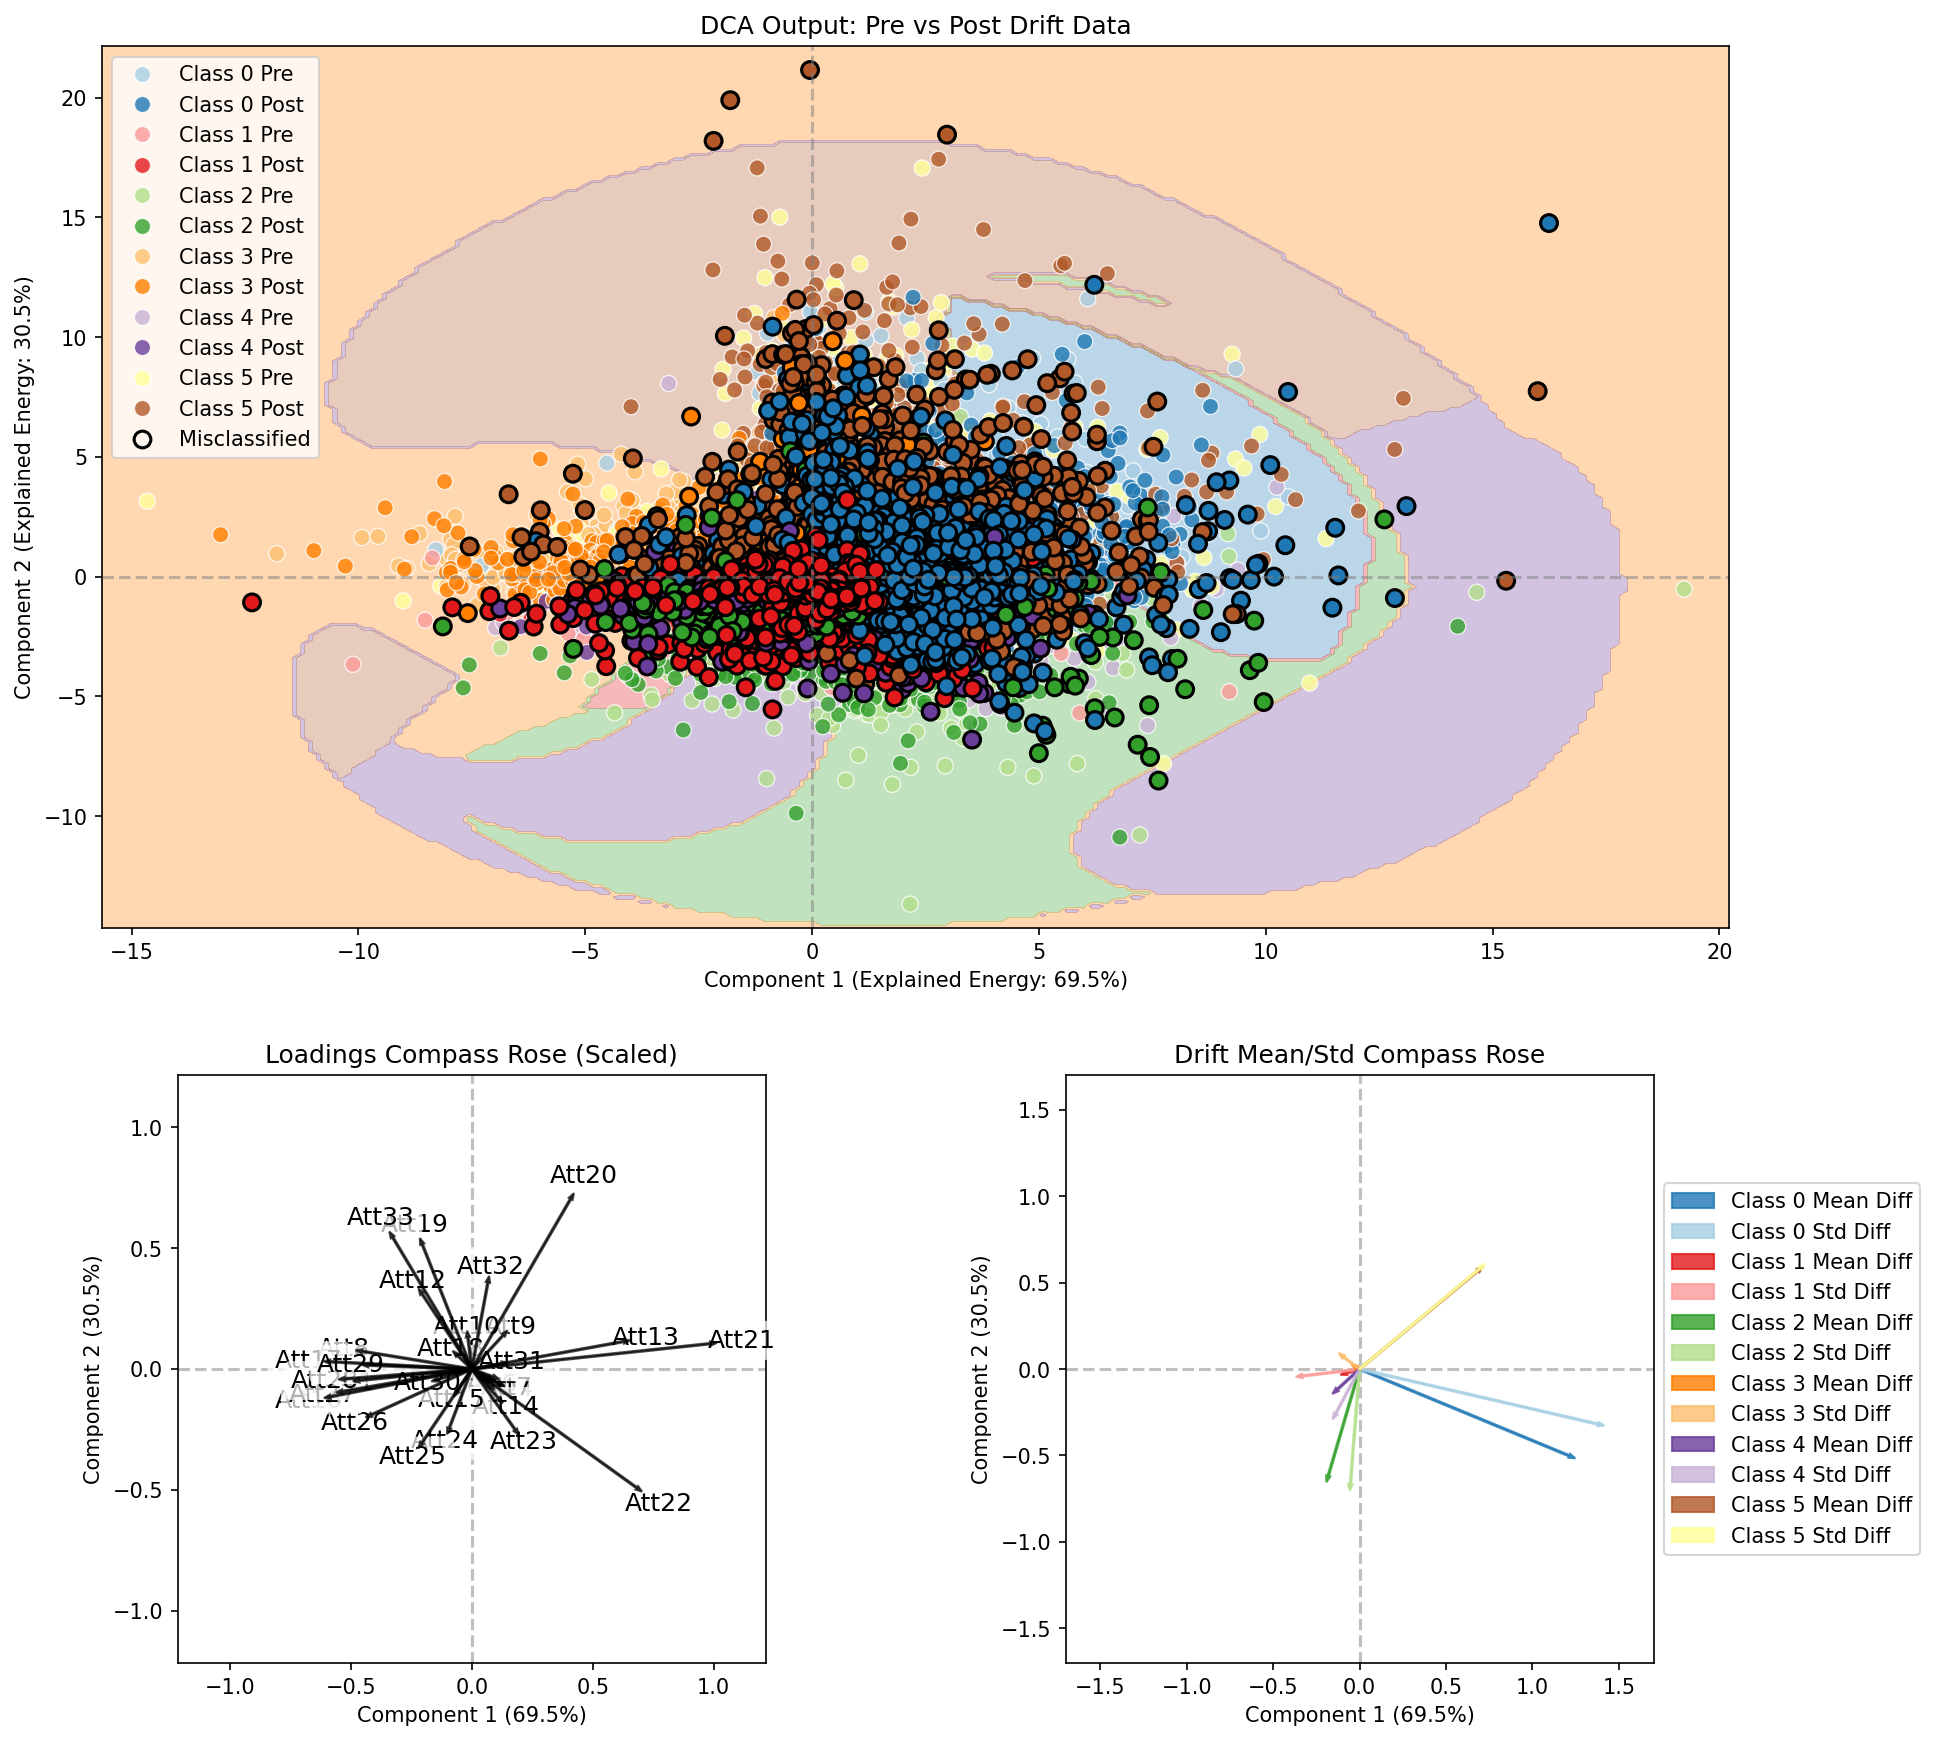
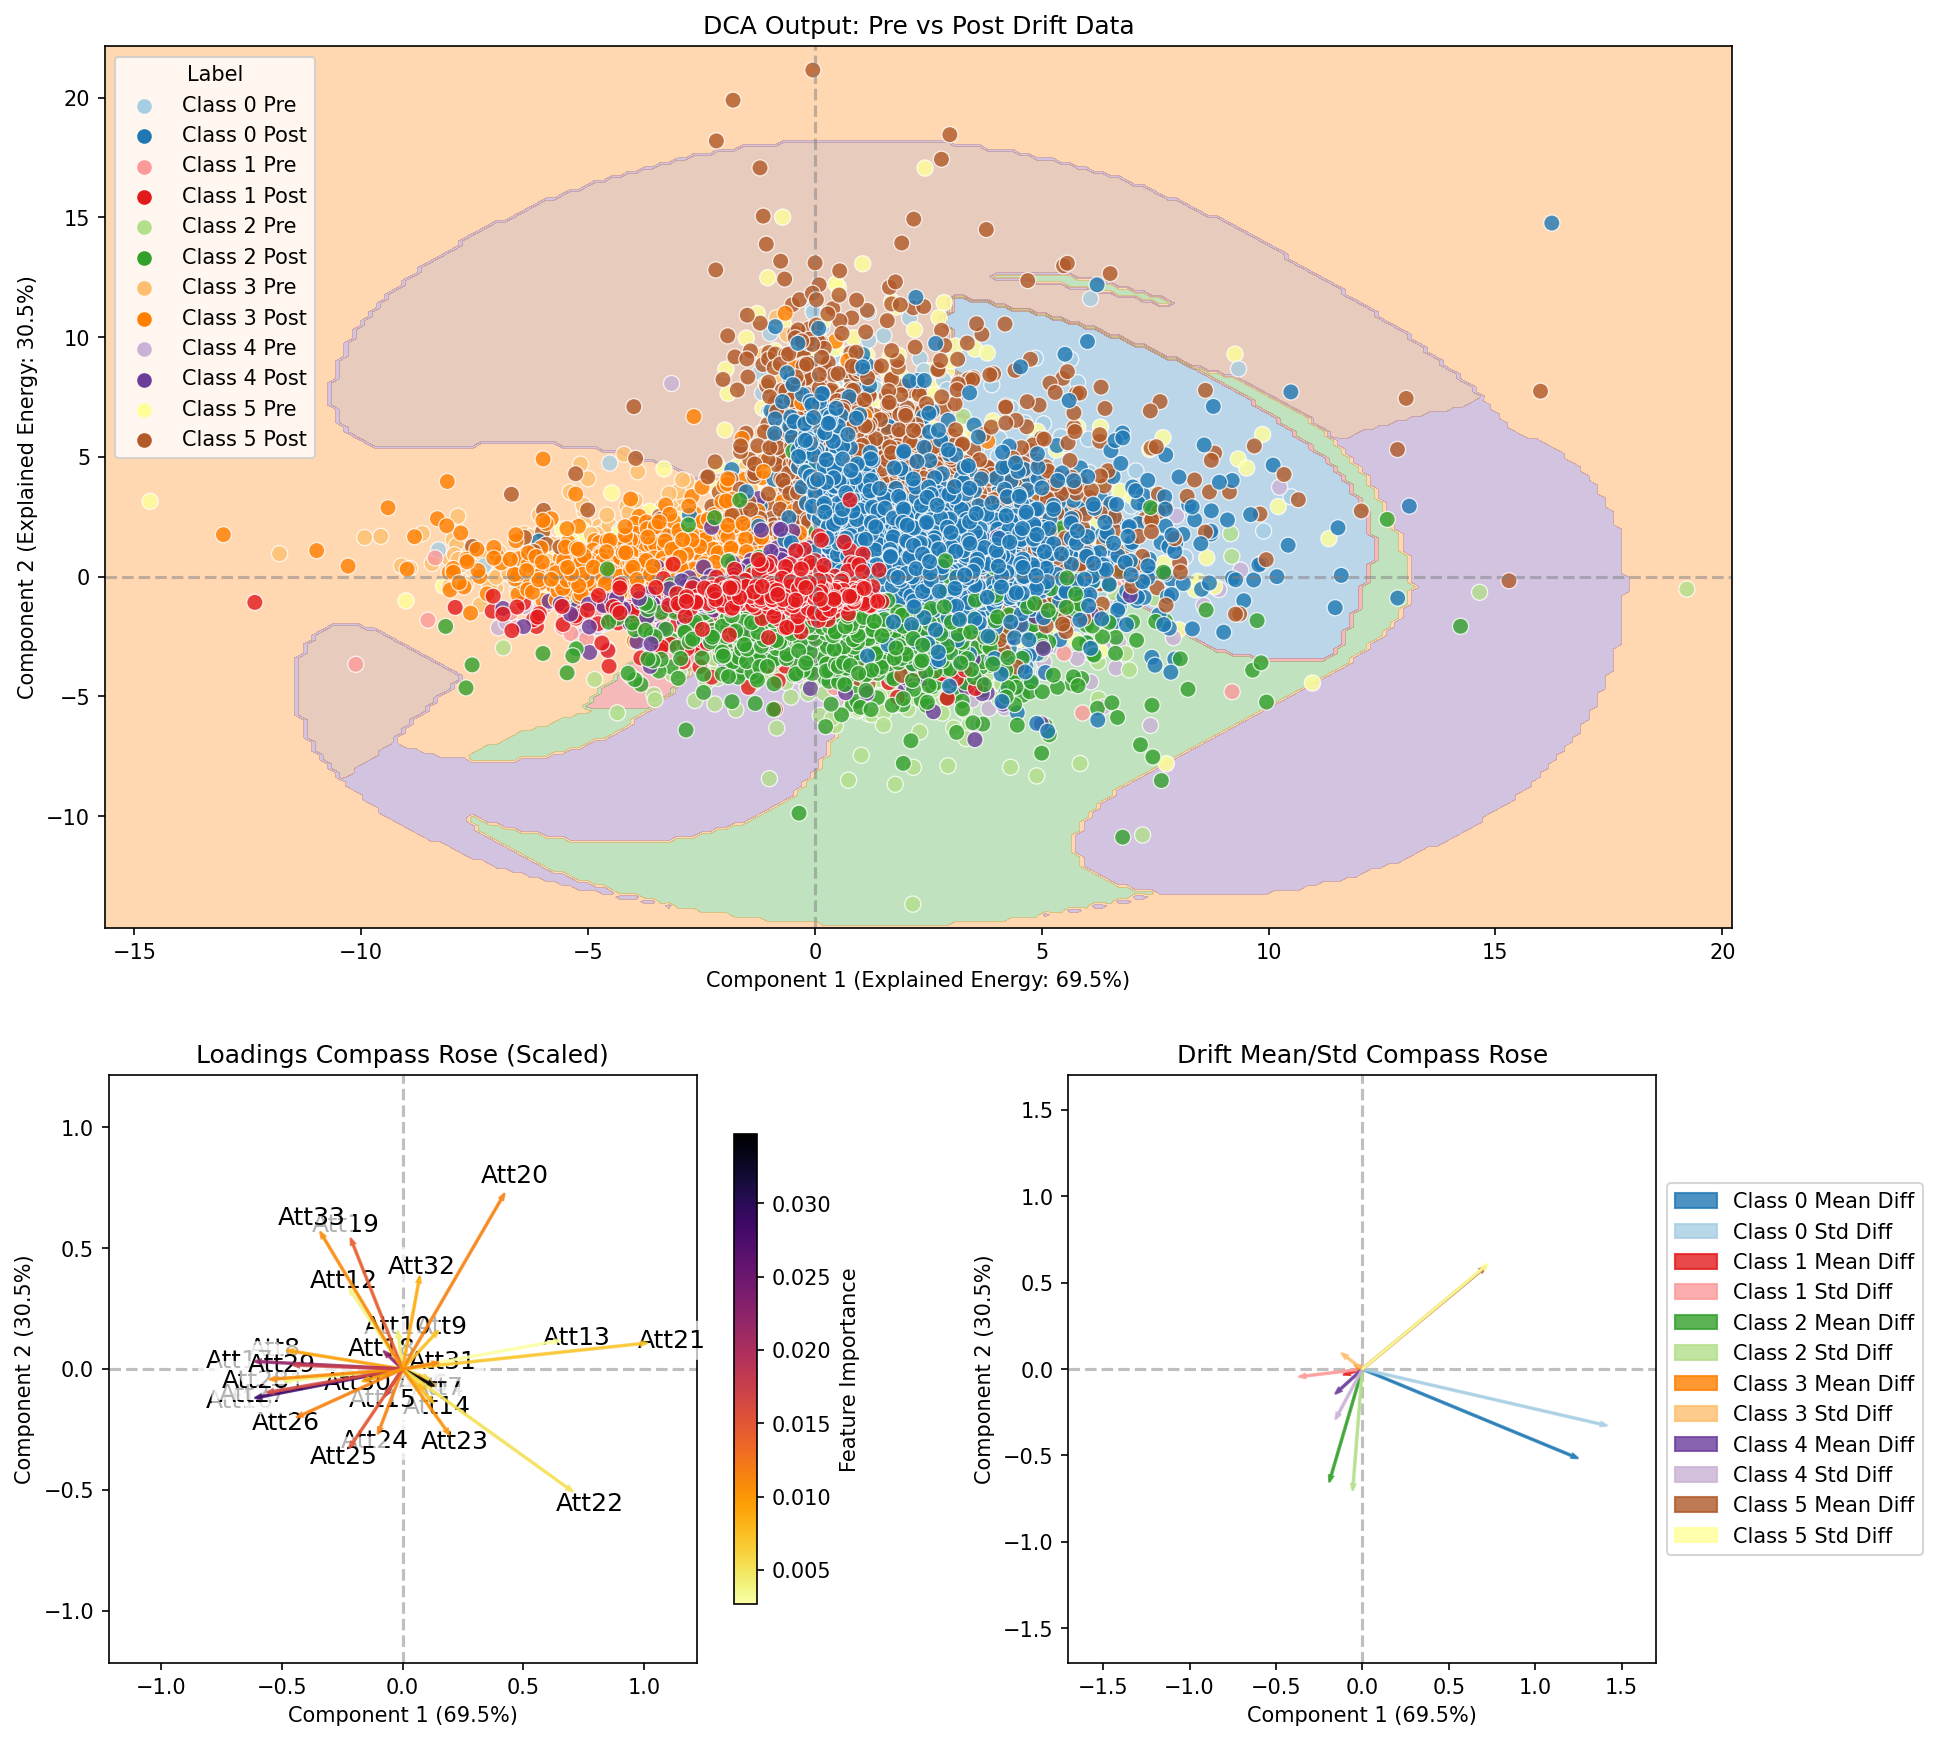
Update

diff --git a/analysis_methods/dca2_utils.py b/analysis_methods/dca2_utils.py
@@ -54,6 +54,8 @@ def plot_dca_scatter(X_pre, y_pre, X_post, y_post, dca, ax, pre_drift_model=None
     
     # Draw decision boundary based purely on PRE-DRIFT model
     if pre_drift_model is not None and draw_boundary:
+        logger.info("Drawing decision boundary...")
+        
         all_proj = np.vstack([X_pre_proj, X_post_proj])
         x_min, x_max = all_proj[:, 0].min() - 1, all_proj[:, 0].max() + 1
         y_min, y_max = all_proj[:, 1].min() - 1, all_proj[:, 1].max() + 1

diff --git a/scripts/run_dca.py b/scripts/run_dca.py
@@ -138,6 +138,7 @@ def run_dca():
         else:
             pre_drift_model = RandomForestClassifier(n_estimators=100, max_depth=5, random_state=42)
             
+        logger.info(f"Training {args.model} model on Pre-drift data...")
         pre_drift_model.fit(X_pre, y_pre)
 
     feature_importances = None
